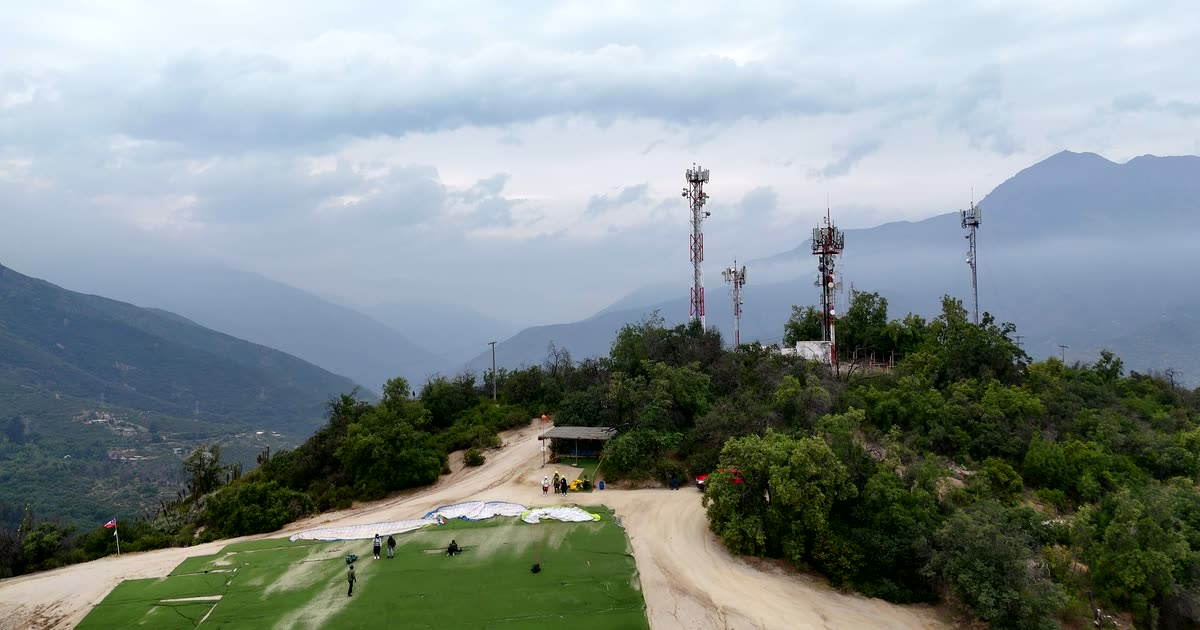
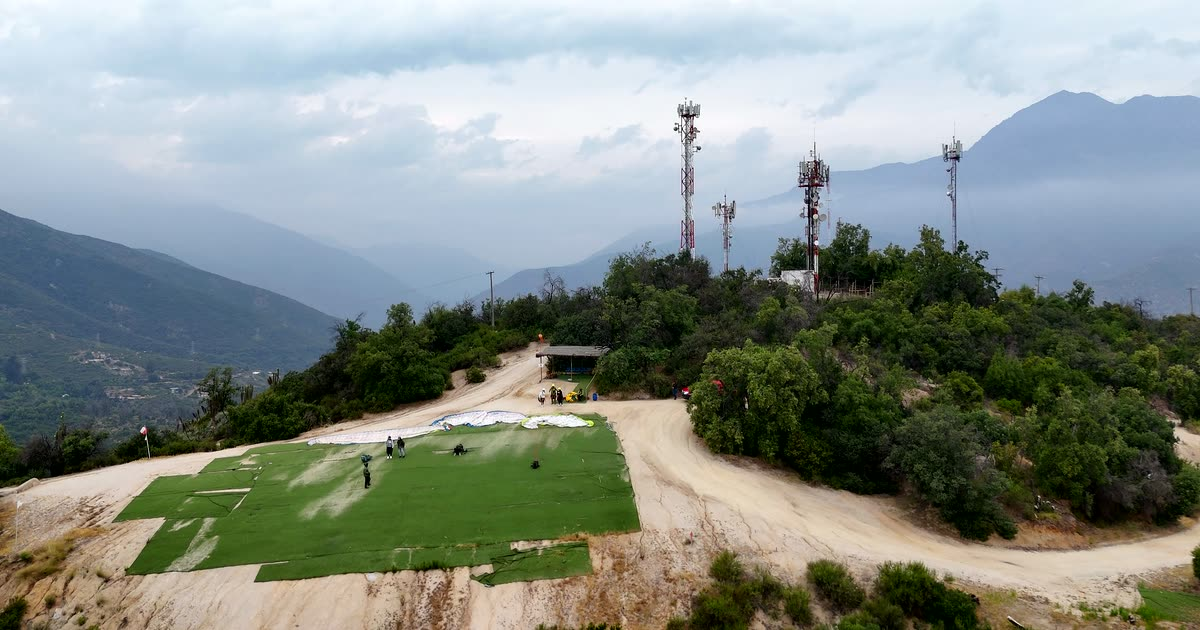
Hero con mas despegue y centrado real de los iconos sociales
El hero pasa al frame de los 60 s del mismo clip de dron: la rampa de
despegue ocupa mas cuadro y se mantiene el valle con la cordillera.

Los iconos no estaban centrados porque el SVG es inline y se apoyaba en
la linea base del texto. Ahora los chips usan flex con line-height 0 y
los iconos van en display block. El glifo de TikTok ademas estaba
descentrado dentro de su propio viewBox: se corrige con viewBox
"1.3 -0.5 24 24". Mismo arreglo en los iconos del footer.

diff --git a/landing/public/styles.css b/landing/public/styles.css
@@ -85,8 +85,8 @@ ul, ol { margin: 0; padding: 0; list-style: none; }
 .nav .btn { margin-top: 10px; width: 100%; }
 .nav-social { display: flex; align-items: center; gap: 8px; margin-top: 14px; }
 .nav-social li { display: flex; }
-.nav-social a { width: 38px; height: 38px; border-radius: 50%; display: grid; place-items: center; background: rgba(11,26,51,.5); backdrop-filter: blur(8px); -webkit-backdrop-filter: blur(8px); border: 1px solid rgba(255,255,255,.3); }
-.nav-social .ic { width: 18px; height: 18px; }
+.nav-social a { width: 38px; height: 38px; border-radius: 50%; display: flex; align-items: center; justify-content: center; line-height: 0; background: rgba(11,26,51,.5); backdrop-filter: blur(8px); -webkit-backdrop-filter: blur(8px); border: 1px solid rgba(255,255,255,.3); }
+.nav-social .ic { display: block; width: 18px; height: 18px; }
 .nav-social a:hover { background: var(--yellow); color: var(--navy); border-color: var(--yellow); }
 
 @media (min-width: 1080px) {
@@ -250,7 +250,8 @@ ul, ol { margin: 0; padding: 0; list-style: none; }
 .footer a { text-decoration: none; }
 .footer a:hover { color: var(--yellow); }
 .social { display: flex; gap: 10px; }
-.social a { width: 40px; height: 40px; border-radius: 50%; background: var(--navy-2); display: grid; place-items: center; color: #fff; }
+.social a { width: 40px; height: 40px; border-radius: 50%; background: var(--navy-2); display: flex; align-items: center; justify-content: center; line-height: 0; color: #fff; }
+.social .ic { display: block; width: 19px; height: 19px; }
 .contact { display: grid; gap: 8px; }
 .contact a { display: flex; align-items: center; gap: .5em; }
 .copy { margin-top: 32px; padding-top: 16px; border-top: 1px solid rgba(255,255,255,.1); font-size: .78rem; }

diff --git a/landing/public/index.html b/landing/public/index.html
@@ -57,7 +57,7 @@
   <symbol id="i-weight" viewBox="0 0 24 24"><path fill="none" stroke="currentColor" stroke-width="2" stroke-linejoin="round" d="M5 8h14l2 13H3L5 8Z"/><circle cx="12" cy="5" r="2.5" fill="none" stroke="currentColor" stroke-width="2"/></symbol>
   <symbol id="i-ig" viewBox="0 0 24 24"><rect x="3" y="3" width="18" height="18" rx="5" fill="none" stroke="currentColor" stroke-width="2"/><circle cx="12" cy="12" r="4" fill="none" stroke="currentColor" stroke-width="2"/><circle cx="17.5" cy="6.5" r="1.2" fill="currentColor"/></symbol>
   <symbol id="i-fb" viewBox="0 0 24 24"><path fill="currentColor" d="M14 8V6.5c0-.8.4-1.5 1.6-1.5H17V2h-2.6C11.6 2 11 4 11 5.9V8H8.5v3H11v11h3V11h2.6l.4-3z"/></symbol>
-  <symbol id="i-tt" viewBox="0 0 24 24"><path fill="currentColor" d="M16.5 2h-3v13.3a2.8 2.8 0 1 1-2-2.7V9.5a5.8 5.8 0 1 0 5 5.8V8.7A7 7 0 0 0 21 10V7a4.5 4.5 0 0 1-4.5-5Z"/></symbol>
+  <symbol id="i-tt" viewBox="1.3 -0.5 24 24"><path fill="currentColor" d="M16.5 2h-3v13.3a2.8 2.8 0 1 1-2-2.7V9.5a5.8 5.8 0 1 0 5 5.8V8.7A7 7 0 0 0 21 10V7a4.5 4.5 0 0 1-4.5-5Z"/></symbol>
   <symbol id="i-mail" viewBox="0 0 24 24"><rect x="3" y="5" width="18" height="14" rx="2" fill="none" stroke="currentColor" stroke-width="2"/><path fill="none" stroke="currentColor" stroke-width="2" d="m3.5 6 8.5 7 8.5-7"/></symbol>
   <symbol id="i-lock" viewBox="0 0 24 24"><rect x="5" y="11" width="14" height="10" rx="2" fill="none" stroke="currentColor" stroke-width="2"/><path fill="none" stroke="currentColor" stroke-width="2" d="M8 11V8a4 4 0 0 1 8 0v3"/></symbol>
 </svg>
